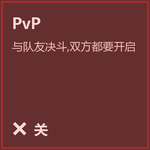
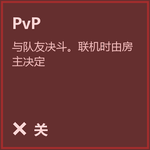
The host's rules count for everyone: Free Bell Travel, TP > Partner, PvP
The user: "the host should be in control for everything". New rules.lua: the host says its rules as
RULES ft tp pvp (at once on a change, and every 5 s for a guest who just linked); a guest follows them, keeps its
own aside, and gets them back when sync stops or it hosts. On a guest the MORE page shows the host's choice on those
tiles, and a click there says "Only the host's setting counts." What only touches a player's own screen, IP or PC
(Partner Compass, Partner On The Map, Steam Direct, Mode) stays their own; Players was the host's already.

PvP tile and ini notes say the host decides. main.dll's ini compare still mentions pvp when the two inis differ.

Sim: four 841 ok (new: guest follows, change reaches it at once, host follows nobody, a guest's click changes
nothing and says why, own rules back at sync off). Against the last commit the only difference is the RULES event and
its log line; the game calls are the same. Lint and event check clean.

Changed region(s): [[0.4267, 0.2667, 0.9067, 0.3467], [0.08, 0.3733, 0.32, 0.4533]]

diff --git a/art/make_online_panel.py b/art/make_online_panel.py
@@ -19,7 +19,7 @@ WORDS = {
         "settings": "SETTINGS",
         "tiles": {"teleport": ("TP > Partner", "F3 takes you to your partner, on any map"),
                   "revive": ("Revive", "Strike a downed partner to bring them back"),
-                  "pvp": ("PvP", "Duel your partner; both must turn it on"),
+                  "pvp": ("PvP", "Duel your partner. Online, the host decides"),
                   "compass": ("Partner Compass", "Shows where your partner is"),
                   "mapicon": ("Partner On The Map", "Their mark on the game's map"),
                   "freetravel": ("Free Bell Travel", "Off: a trip to a bell costs a Traversal Talisman"),
@@ -49,7 +49,7 @@ WORDS = {
         "settings": "设置",
         "tiles": {"teleport": ("传送到队友", "开启后按 F3 传送到队友身边,不限地图"),
                   "revive": ("复活", "攻击倒地的队友可将其救起"),
-                  "pvp": ("PvP", "与队友决斗,双方都要开启"),
+                  "pvp": ("PvP", "与队友决斗。联机时由房主决定"),
                   "compass": ("队友指南针", "显示队友所在的方向"),
                   "mapicon": ("地图上的队友", "在游戏地图上显示队友的位置"),
                   "freetravel": ("免费钟传送", "关闭后,传送到钟要消耗道具,与原版相同"),
